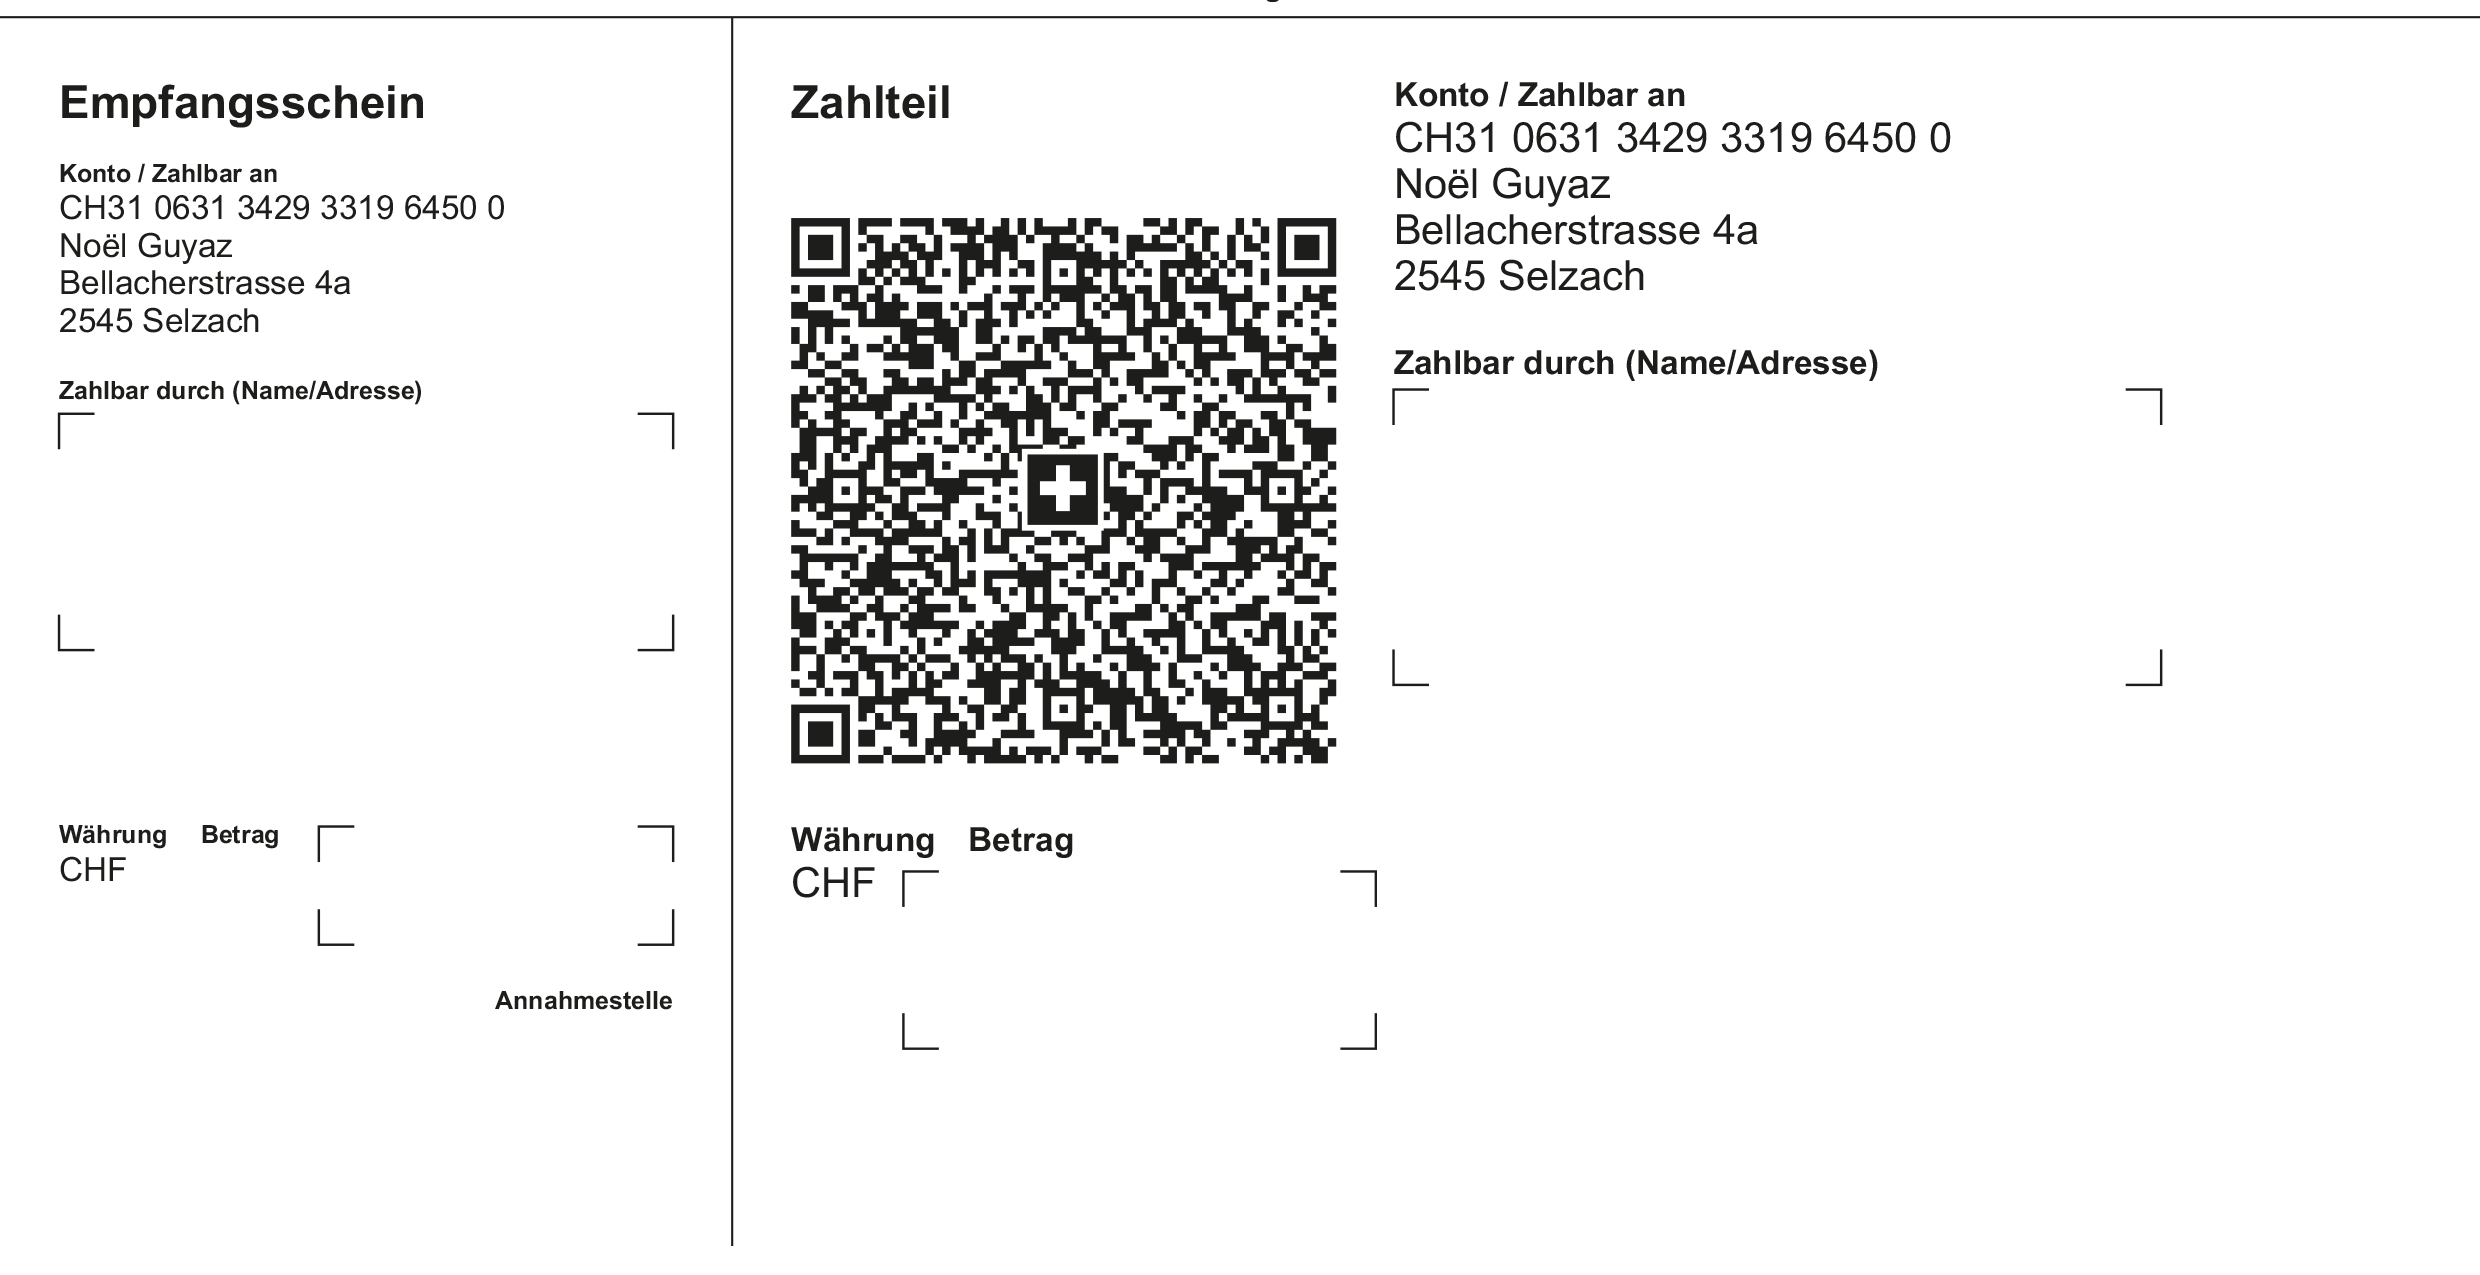
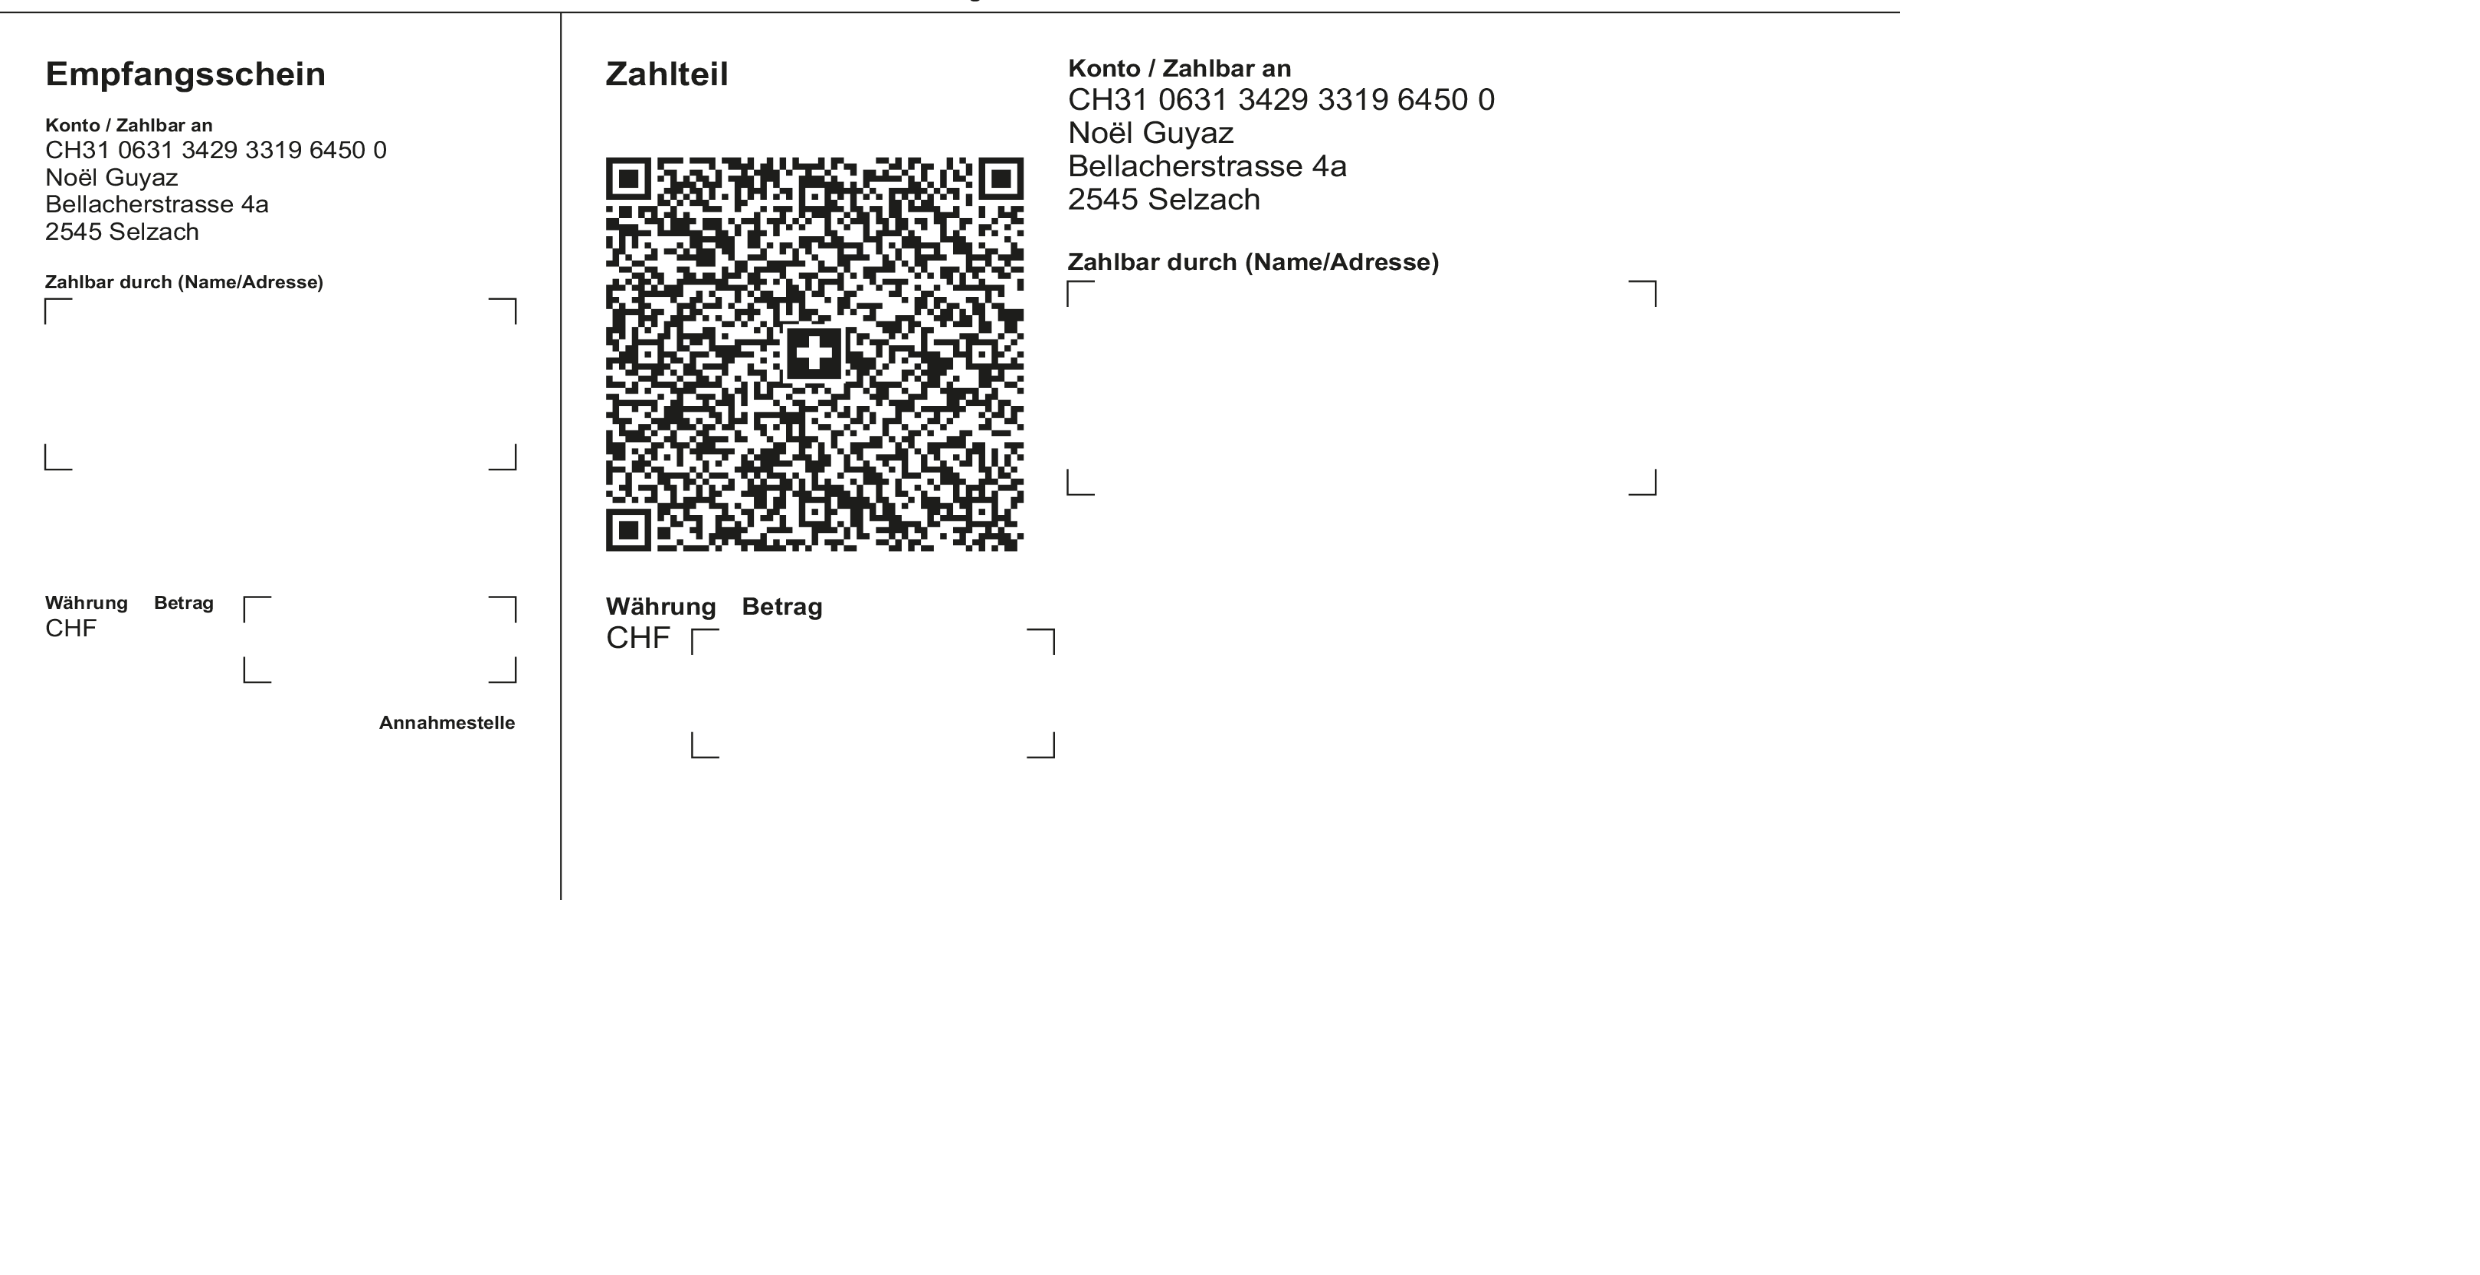
Add files via upload

diff --git a/app.js b/app.js
@@ -307,12 +307,12 @@ $("#makepdf")?.addEventListener("click", async () => {
   doc.text(total.toFixed(2) + " CHF", 198, row_y, { align: "right" });
 
   // 7. Fusszeile – garantiert hoch genug!
-  let fussY = 245;
+  let fussY = 240;
   doc.setFont("helvetica", "normal").setFontSize(10);
   doc.text(fuss, 16, fussY, { maxWidth: 175 });
 
   // 8. QR-Zahlteil (PNG) GANZ UNTEN – Höhe max. 32mm
-  await addImageToPDF(doc, 'zahlteilimg', 10, 257, 190, 32);
+  await addImageToPDF(doc, 'zahlteilimg', 10, 270, 190, 32);
 
   doc.save(`Rechnung-${rechnr}.pdf`);
   $("#status").textContent = "PDF erstellt!";
